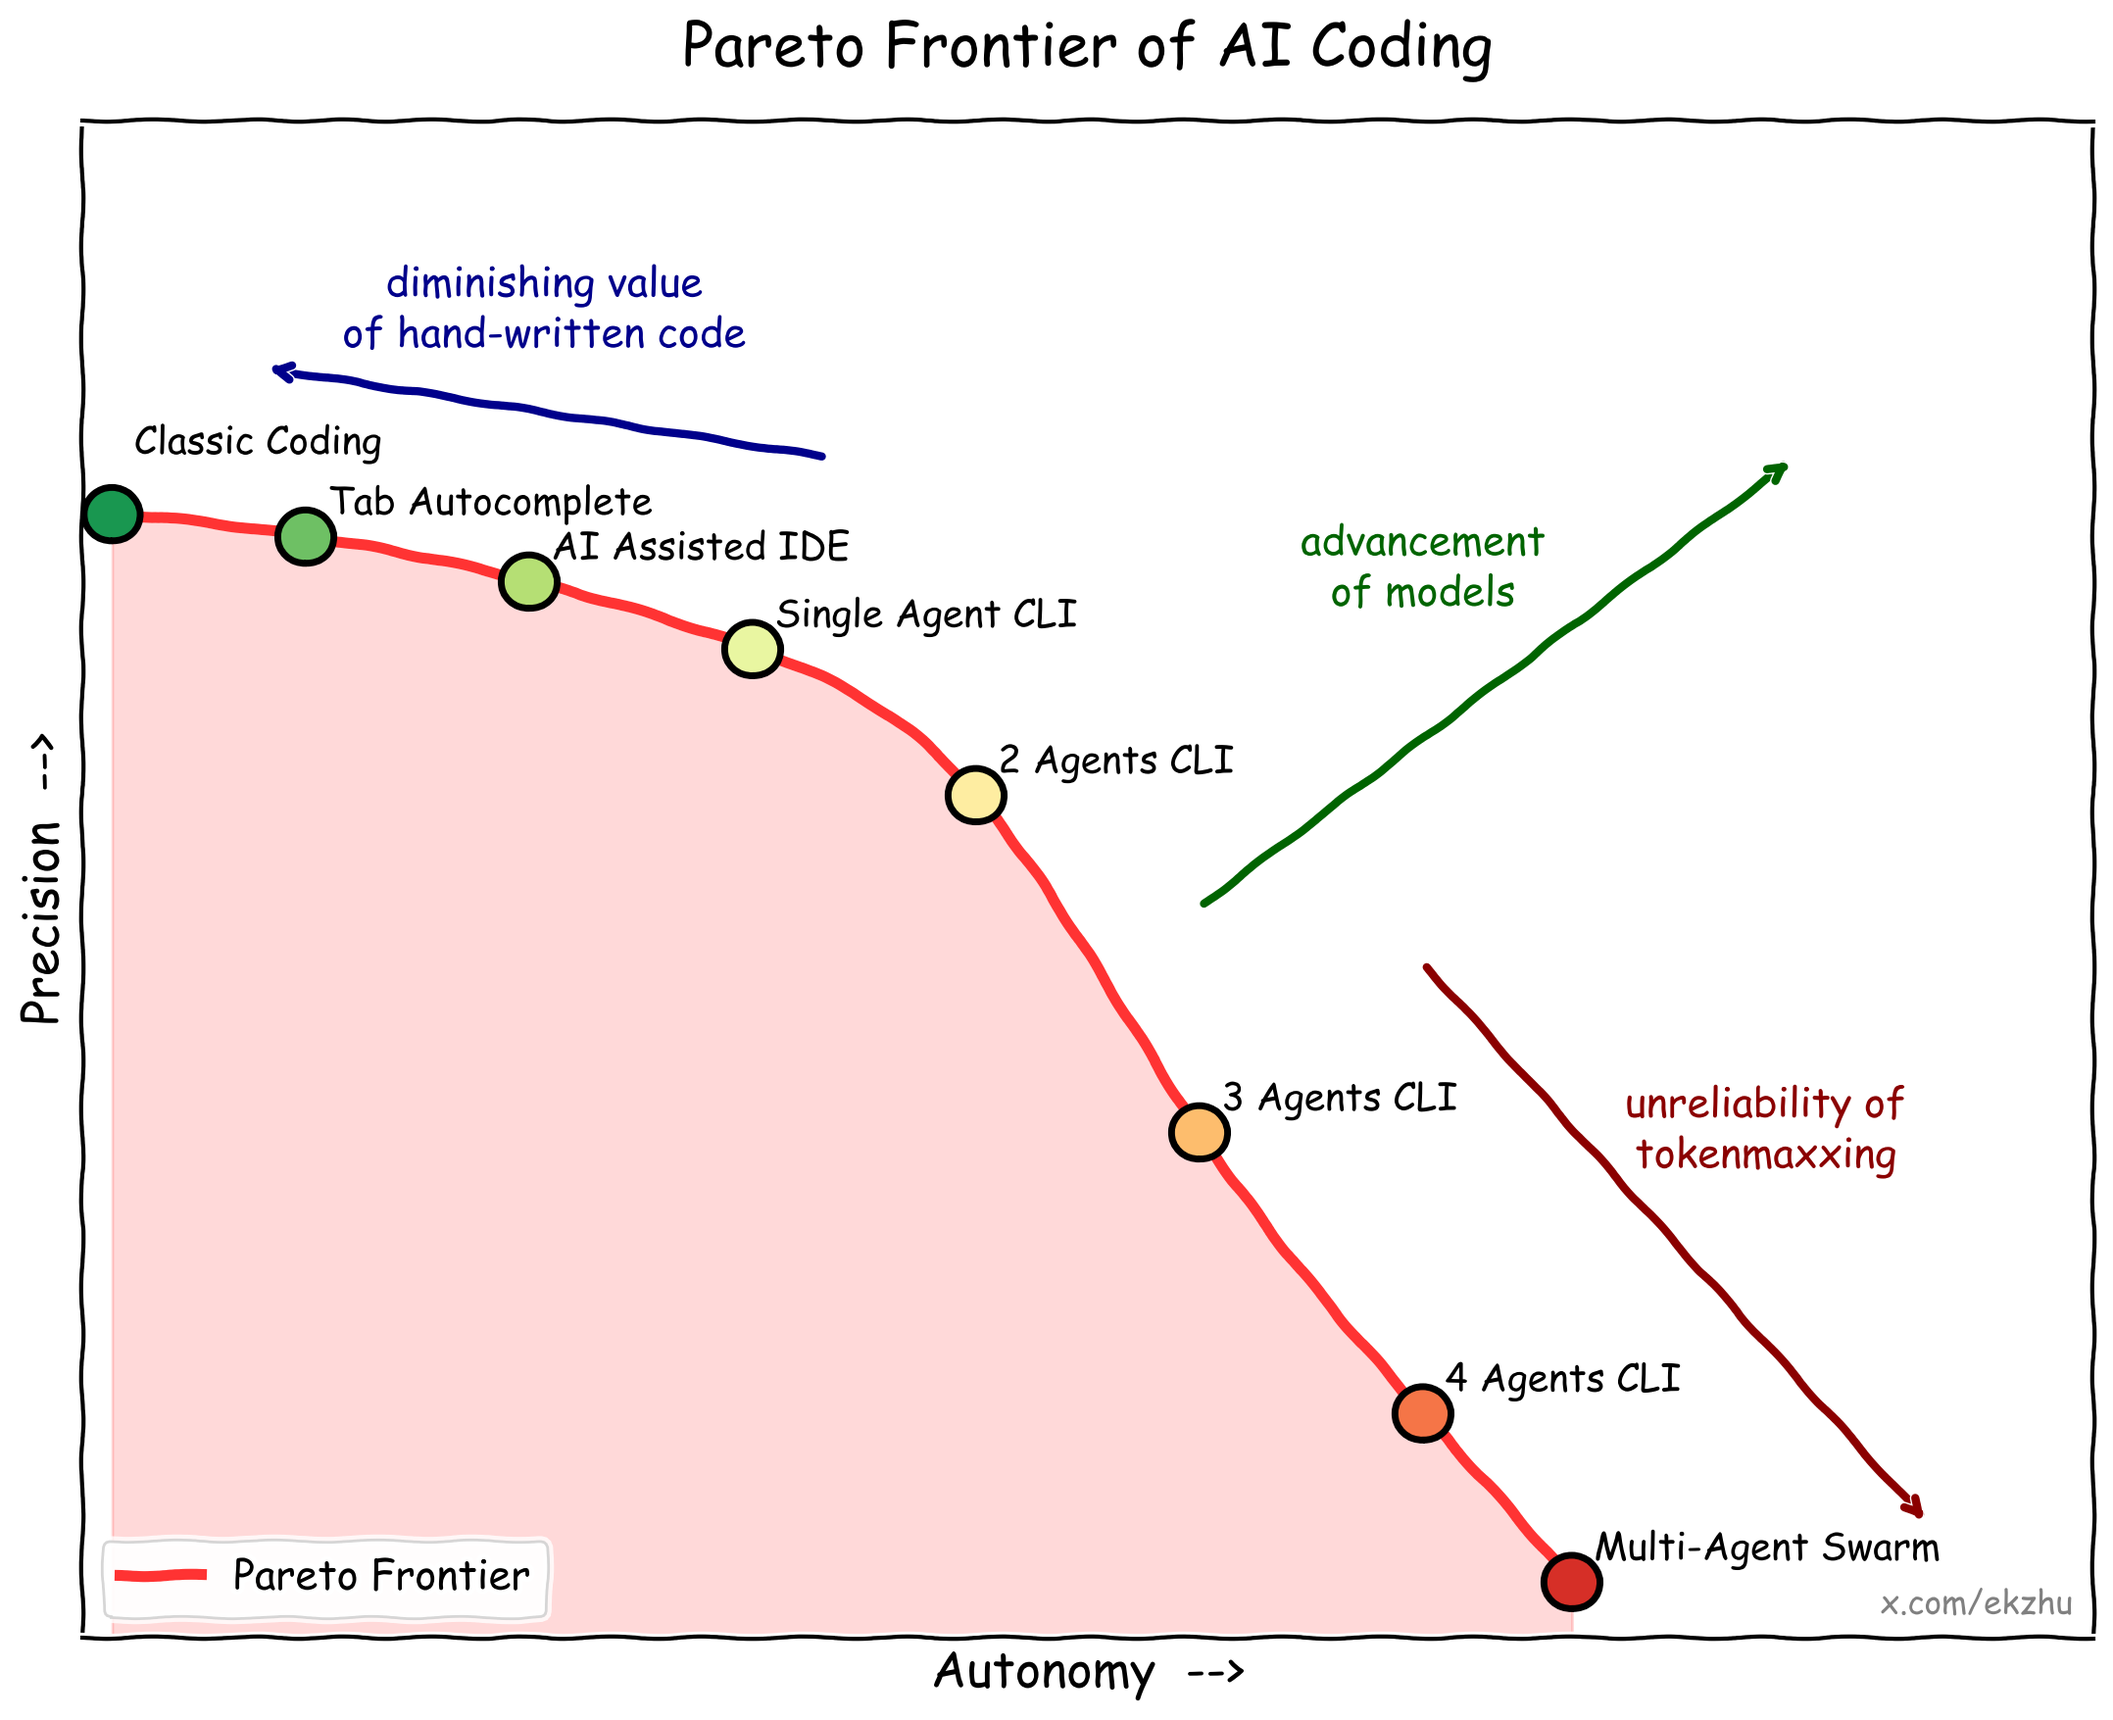
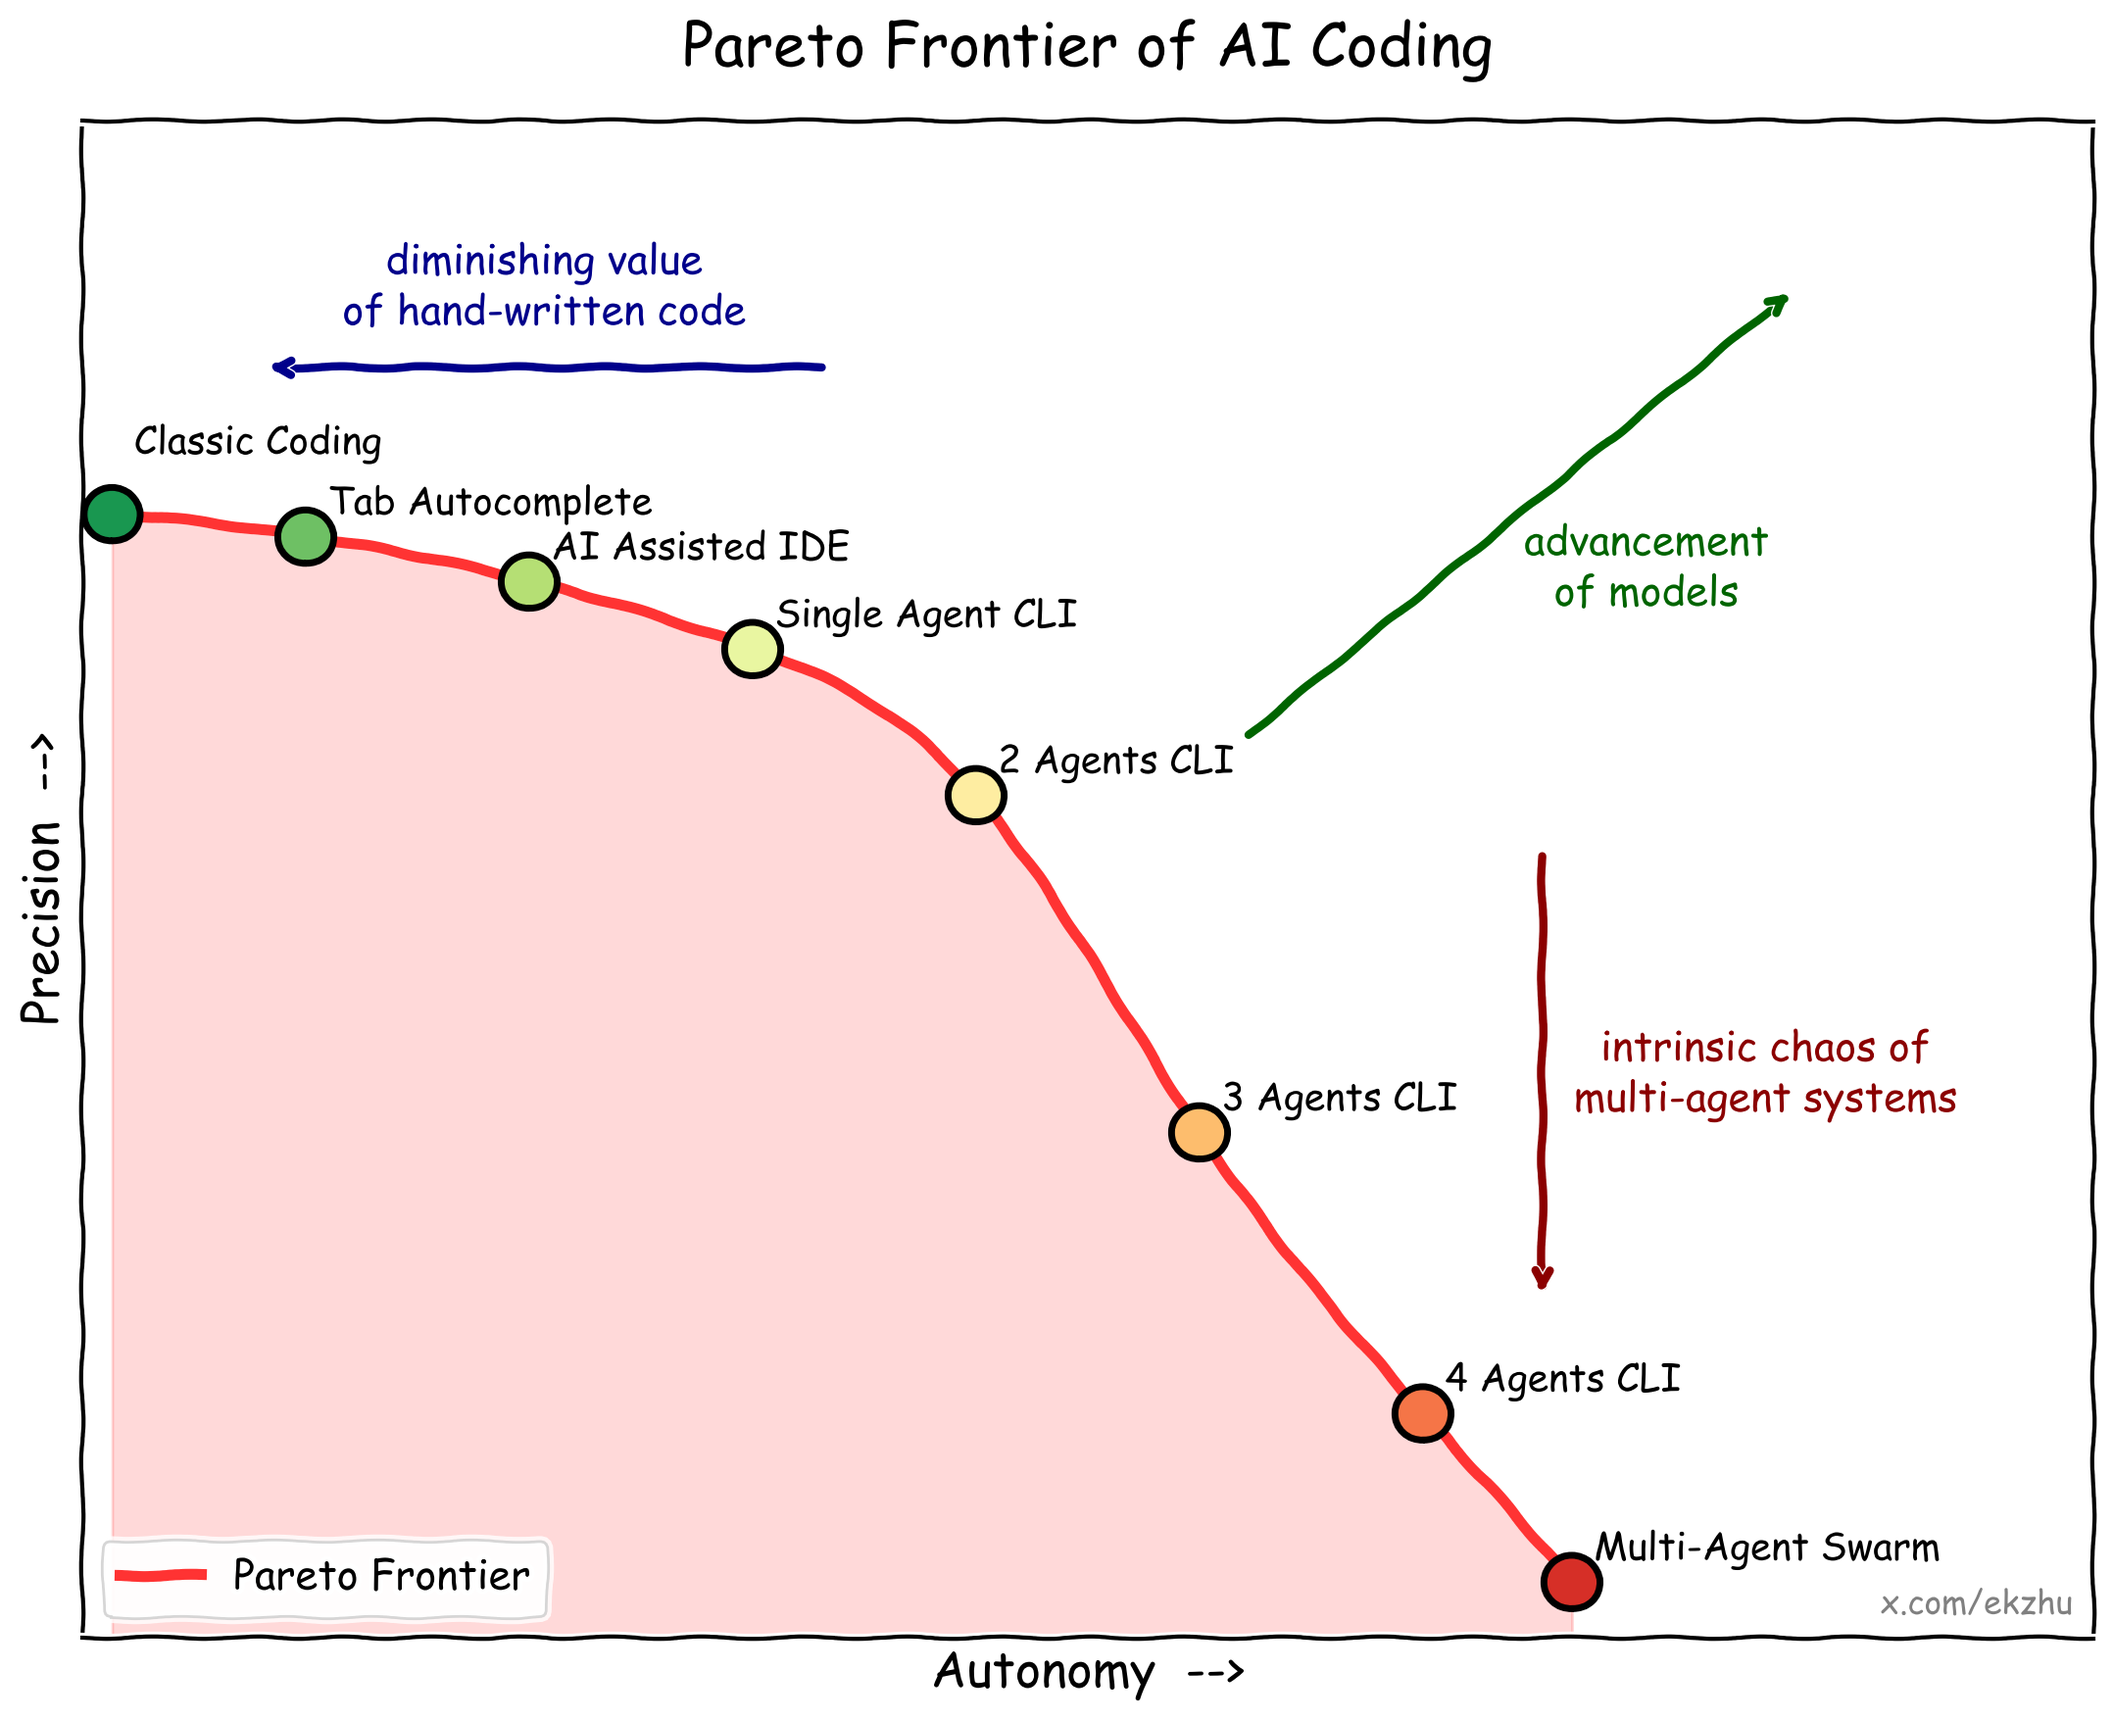
update

diff --git a/pareto_frontier.py b/pareto_frontier.py
@@ -72,25 +72,25 @@ with plt.xkcd(scale=1.2, length=120, randomness=3):
 
     # Arrow 1: Single Agent CLI -> Classic Coding, above curve
     labeled_arrow(ax,
-                  tail=(5, 10.5), tip=(1.2, 11.3),
+                  tail=(5, 11.3), tip=(1.2, 11.3),
                   label='diminishing value\nof hand-written code',
                   color='darkblue',
-                  label_pos=(3.1, 11.8))
+                  label_pos=(3.1, 12))
 
     # Arrow 2: 2 Agents CLI -> Multi-Agent Swarm, outside curve, short enough
     # not to touch arrow 3.
     labeled_arrow(ax,
-                  tail=(9, 6), tip=(12.4, 1),
-                  label='unreliability of\ntokenmaxxing',
+                  tail=(9.8, 7), tip=(9.8, 3),
+                  label='intrinsic chaos of\nmulti-agent systems',
                   color='darkred',
-                  label_pos=(11.3, 4.5))
+                  label_pos=(11.3, 5))
 
     # Arrow 3: center of curve -> top-right corner, starts outside shaded area
     labeled_arrow(ax,
-                  tail=(7.5, 6.5), tip=(11.5, 10.5),
+                  tail=(7.8, 8), tip=(11.5, 12),
                   label='advancement\nof models',
                   color='darkgreen',
-                  label_pos=(9, 9.5))
+                  label_pos=(10.5, 9.5))
 
     # Credit in bottom-right corner
     ax.text(0.99, 0.01, 'x.com/ekzhu',
